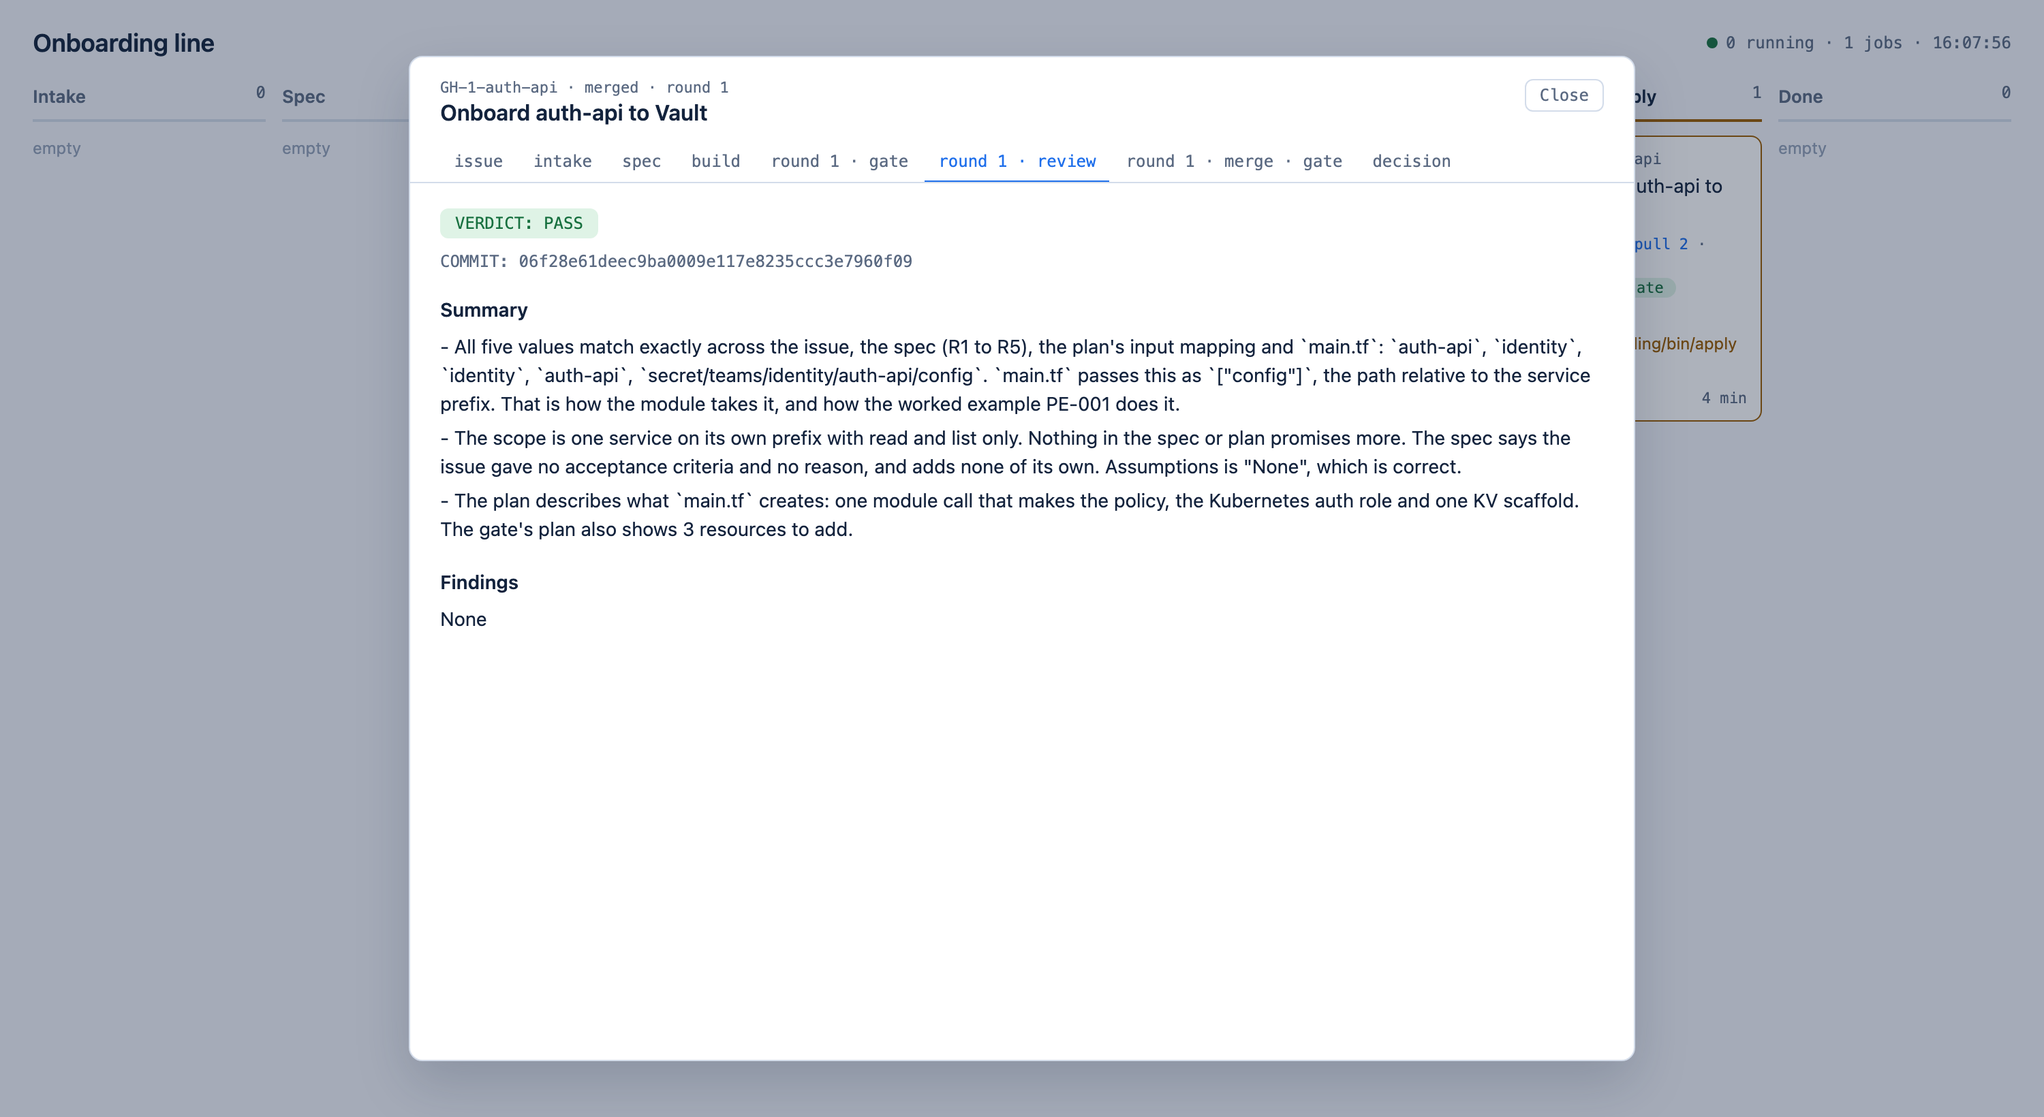
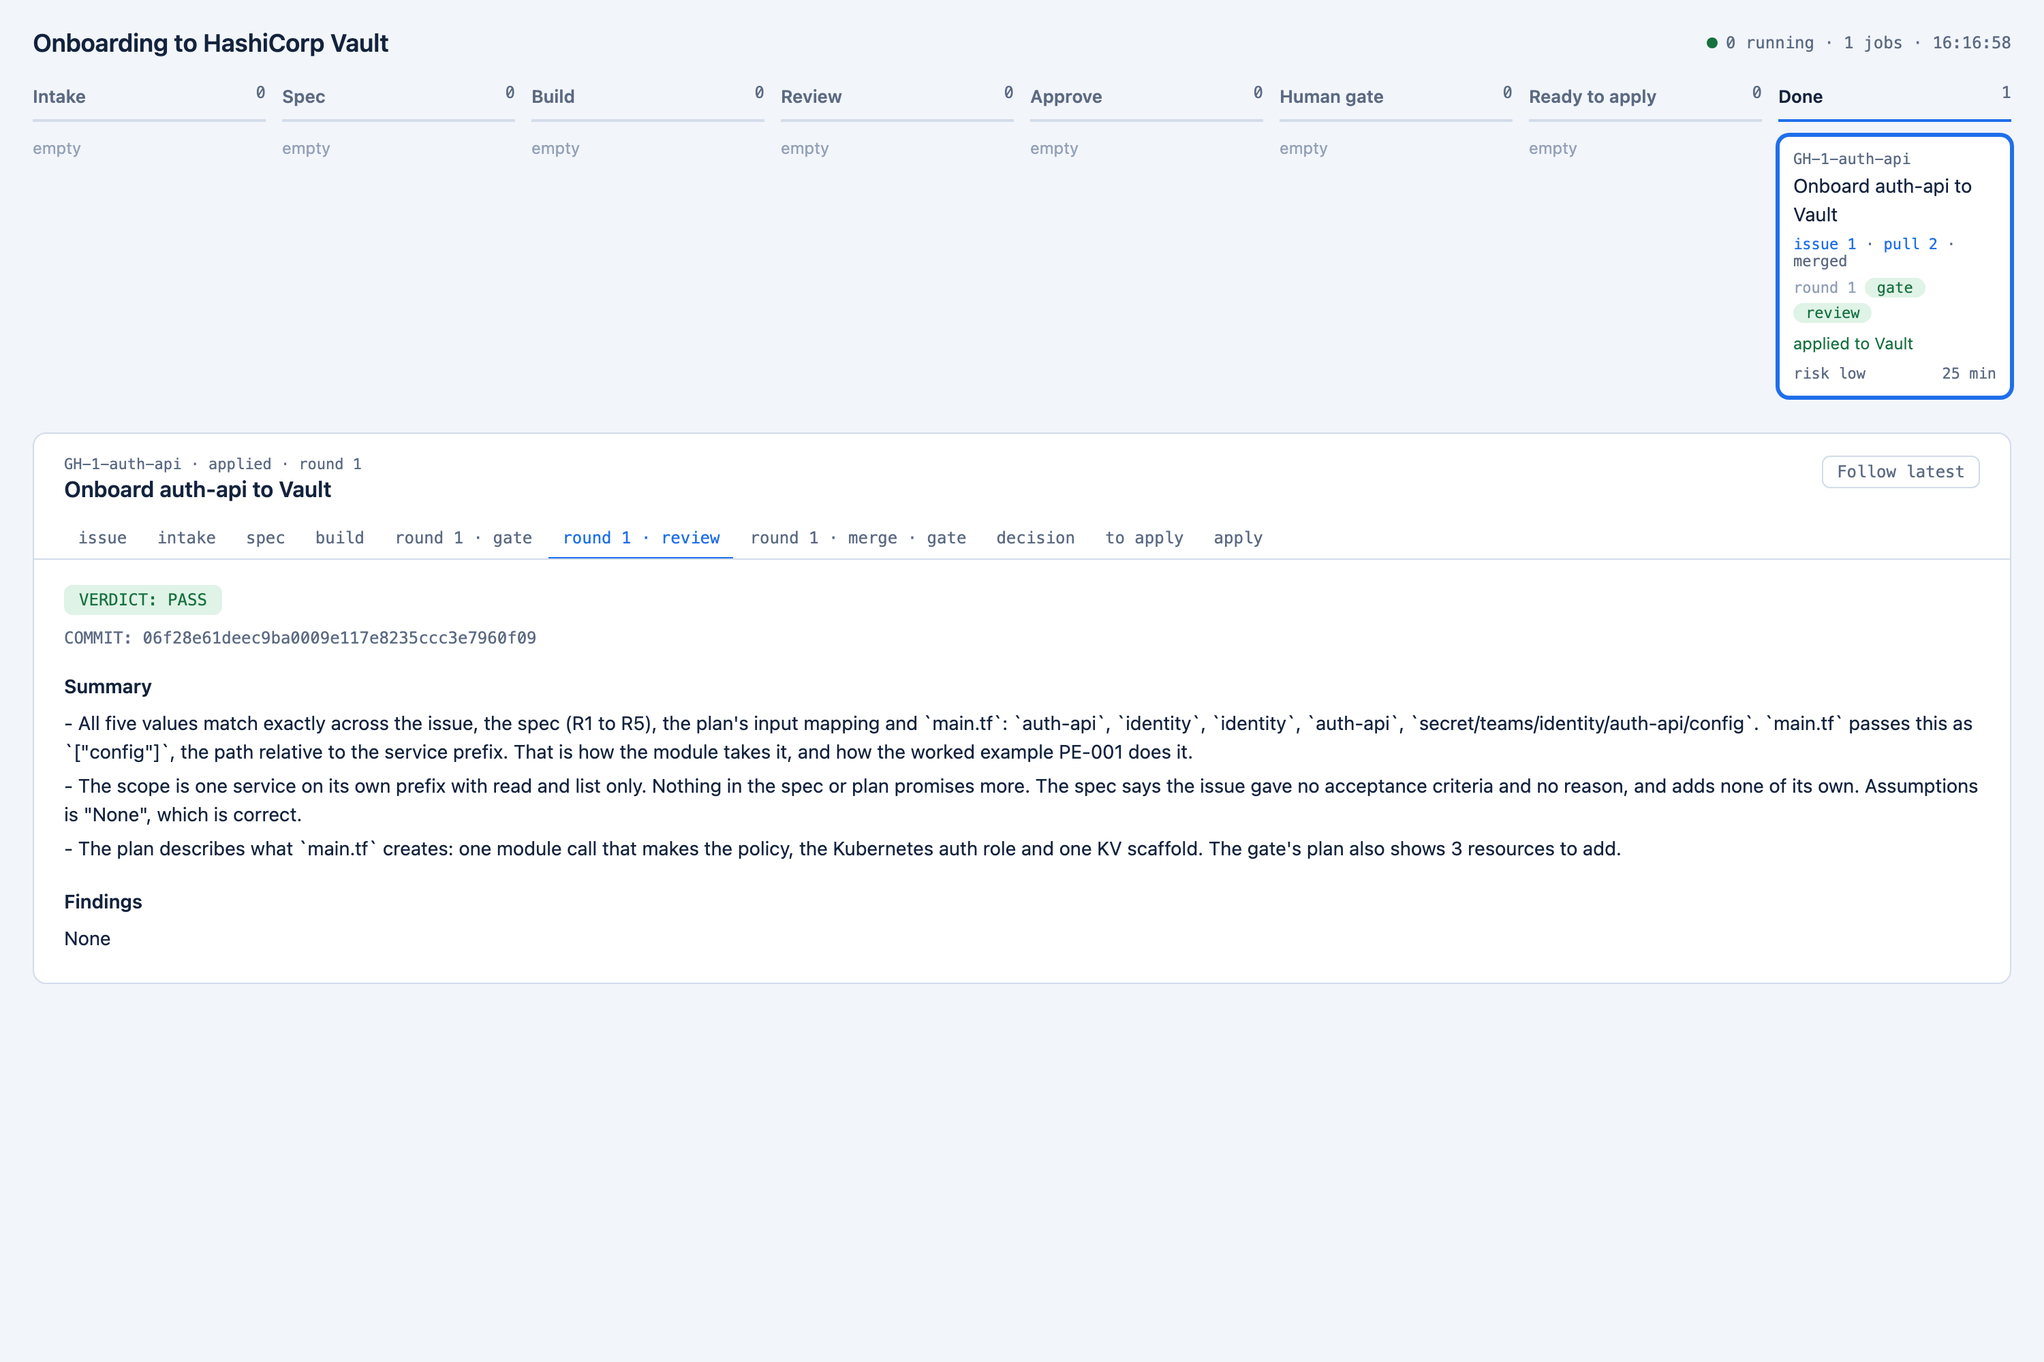
Board: a panel under the lanes, with the plan for a job that is ready to apply
The steps of a job now show in a panel under the lanes instead of a
pop-up. The panel follows the job that moved last; a click on a card
keeps it on that job. The gate keeps the text of its Terraform plan, and
the board shows it in a 'to apply' tab, so a person can read what will be
written to Vault before running the apply script.

Screenshots retaken. They now include the plan and the apply report of
the first real job.

diff --git a/onboarding/board/index.html b/onboarding/board/index.html
@@ -3,7 +3,7 @@
 <head>
 <meta charset="utf-8">
 <meta name="viewport" content="width=device-width, initial-scale=1">
-<title>Onboarding line</title>
+<title>Onboarding to HashiCorp Vault</title>
 <style>
   /* Daylight blue: a cool light page, white cards, one blue for what is running. */
   :root {
@@ -26,8 +26,8 @@
   @keyframes blink { 50% { opacity: .3; } }
   @media (prefers-reduced-motion: reduce) { .lamp.live, .beat { animation: none; } }
 
-  main { display: grid; grid-template-columns: repeat(8, minmax(150px, 1fr)); gap: 12px; padding: 0 24px 24px; overflow-x: auto; }
-  .lane { min-height: 62vh; }
+  main { display: grid; grid-template-columns: repeat(8, minmax(150px, 1fr)); gap: 12px; padding: 0 24px 16px; overflow-x: auto; }
+  .lane { min-height: 120px; }
   /* A lane heading is underlined; the line turns blue when the lane has jobs. */
   .lane h2 { display: flex; justify-content: space-between; margin: 0 0 10px; padding: 0 0 7px; font-size: 13px; font-weight: 600;
              color: var(--muted); border-bottom: 2px solid var(--line); }
@@ -39,6 +39,7 @@
   .card { background: var(--card); border: 1px solid var(--line); border-radius: 8px; padding: 10px; margin-bottom: 10px; cursor: pointer; }
   .card:hover, .card:focus { border-color: var(--blue); outline: none; }
   .card.you { border-color: var(--wait); }
+  .card.open { border-color: var(--blue); box-shadow: 0 0 0 2px var(--blue); }
   .id { font: 11px var(--mono); color: var(--muted); word-break: break-all; }
   .title { margin: 3px 0 5px; }
   .card.rejected .title { text-decoration: line-through; color: var(--muted); }
@@ -54,18 +55,15 @@
   .meta { margin-top: 7px; display: flex; justify-content: space-between; }
   .risk-medium { color: var(--wait); } .risk-high { color: var(--fail); }
 
-  /* One job's files: a sheet over the board, one tab per step. */
-  #shade { position: fixed; inset: 0; background: rgba(19, 35, 61, .35); display: none; }
-  #sheet { position: fixed; inset: 5vh 0 auto 0; margin: 0 auto; width: min(900px, calc(100% - 24px)); height: 90vh;
-           background: var(--card); border: 1px solid var(--line); border-radius: 10px;
-           display: none; grid-template-rows: auto auto 1fr; box-shadow: 0 16px 40px rgba(19, 35, 61, .18); }
-  #sheet.open, #shade.open { display: grid; }
+  /* One job's files, under the lanes: one tab per step. It follows the job that moved last. */
+  #sheet { margin: 0 24px 24px; background: var(--card); border: 1px solid var(--line); border-radius: 10px; display: none; }
+  #sheet.open { display: block; }
   .sheet-head { display: flex; justify-content: space-between; align-items: flex-start; gap: 12px; padding: 16px 22px 10px; }
   #d-title { font-size: 16px; font-weight: 600; }
   #d-steps { display: flex; gap: 2px; padding: 0 22px; border-bottom: 1px solid var(--line); overflow-x: auto; }
   #d-steps div { font: 12px var(--mono); padding: 7px 10px; cursor: pointer; color: var(--muted); white-space: nowrap; border-bottom: 2px solid transparent; margin-bottom: -1px; }
   #d-steps div:hover { color: var(--text); } #d-steps div.on { color: var(--blue); border-bottom-color: var(--blue); }
-  .doc { padding: 18px 22px; overflow-y: auto; }
+  .doc { padding: 18px 22px; }
   .doc .verdict { display: inline-block; font: 12px var(--mono); padding: 3px 10px; border: 1px solid var(--line); border-radius: 6px; margin-bottom: 10px; }
   .doc .verdict.pass { background: var(--pass-bg); color: var(--pass); border-color: transparent; }
   .doc .verdict.fail { background: var(--fail-bg); color: var(--fail); border-color: transparent; }
@@ -78,18 +76,18 @@
   .doc .quote { border-left: 3px solid var(--line); padding-left: 10px; color: var(--muted); }
   .doc .kv { font: 12px var(--mono); color: var(--muted); }
   @media (max-width: 1250px) { main { grid-template-columns: repeat(4, minmax(165px, 1fr)); row-gap: 22px; } .lane { min-height: 0; } }
+  @media (max-width: 680px) { #sheet { margin: 0 16px 16px; } }
   @media (max-width: 680px) { main { grid-template-columns: 1fr; padding: 0 16px 16px; } .top { padding: 16px; flex-direction: column; align-items: flex-start; } }
 </style>
 </head>
 <body>
 <header class="top">
-  <h1>Onboarding line</h1>
+  <h1>Onboarding to HashiCorp Vault</h1>
   <div class="status"><span id="live" class="lamp"></span><span id="summary">connecting</span></div>
 </header>
 <main id="board"></main>
-<div id="shade"></div>
 <aside id="sheet" aria-label="Job steps">
-  <div class="sheet-head"><div><div class="id" id="d-id"></div><div id="d-title"></div></div><button id="d-close">Close</button></div>
+  <div class="sheet-head"><div><div class="id" id="d-id"></div><div id="d-title"></div></div><button id="d-close">Follow latest</button></div>
   <nav id="d-steps"></nav>
   <div class="doc" id="d-doc"></div>
 </aside>
@@ -100,11 +98,11 @@
 // as text (textContent), never as HTML.
 const COLUMNS = [
   ["Intake", ["intake"]], ["Spec", ["spec"]], ["Build", ["build", "gate"]], ["Review", ["review"]],
-  ["Approve", ["approve", "merging"]], ["Needs you", ["needs-info", "needs-human"]],
+  ["Approve", ["approve", "merging"]], ["Human gate", ["needs-info", "needs-human"]],
   ["Ready to apply", ["ready-to-apply", "merged"]], ["Done", ["applied", "rejected"]],
 ];
 const POLL_MS = 2000;
-let jobs = [], lastDrawn = "", openJob = null, openStep = null;
+let jobs = [], lastDrawn = "", openJob = null, openStep = null, pinned = false;
 
 function el(tag, cls, text) {
   const node = document.createElement(tag);
@@ -125,7 +123,7 @@ function mark(label, result, isNow) {
 
 function card(job) {
   const waiting = ["needs-info", "needs-human", "ready-to-apply", "merged"].includes(job.stage);
-  const c = el("div", "card" + (job.running ? " running" : "") + (waiting ? " you" : "") +
+  const c = el("div", "card" + (job.id === openJob ? " open" : "") + (job.running ? " running" : "") + (waiting ? " you" : "") +
                       (job.stage === "applied" ? " applied" : "") + (job.stage === "rejected" ? " rejected" : ""));
   c.tabIndex = 0;
   const id = el("div", "id");
@@ -166,7 +164,7 @@ function draw() {
   board.replaceChildren();
   COLUMNS.forEach(([name, stages]) => {
     const mine = jobs.filter(j => stages.includes(j.stage)).sort((a, b) => b.started.localeCompare(a.started));
-    const lane = el("section", "lane" + (["Needs you", "Ready to apply"].includes(name) ? " you" : "") + (mine.length ? " busy" : ""));
+    const lane = el("section", "lane" + (["Human gate", "Ready to apply"].includes(name) ? " you" : "") + (mine.length ? " busy" : ""));
     const head = el("h2");
     head.append(el("span", "", name), el("span", "count", String(mine.length)));
     lane.append(head);
@@ -186,39 +184,40 @@ async function poll() {
     summary.textContent = running + " running · " + jobs.length + " jobs · " + new Date().toLocaleTimeString();
     // Redraw on change, and once a minute so "minutes elapsed" keeps moving.
     const stamp = text + Math.floor(Date.now() / 60000);
-    if (stamp !== lastDrawn) { lastDrawn = stamp; draw(); if (openJob) fillSheet(); }
+    if (stamp !== lastDrawn) { lastDrawn = stamp; follow(); draw(); fillSheet(); }
   } catch (e) {
     live.className = "lamp down";
     summary.textContent = "board server not reachable";
   }
 }
 
-// ---- the sheet: every step of one job, rendered from the files in its folder
+// ---- the panel: every step of one job, rendered from the files in its folder
 
-function openSheet(id, step) {
-  openJob = id; openStep = step || null;
-  for (const part of ["sheet", "shade"]) document.getElementById(part).classList.add("open");
-  fillSheet();
+// Unless a person picked a card, the panel shows the job that moved last, at its latest step.
+function follow() {
+  if (pinned && jobs.some(j => j.id === openJob)) return;
+  const latest = jobs.slice().sort((a, b) => b.updated.localeCompare(a.updated))[0];
+  pinned = false; openJob = latest ? latest.id : null; openStep = null;
 }
-function closeSheet() {
-  openJob = null;
-  for (const part of ["sheet", "shade"]) document.getElementById(part).classList.remove("open");
-}
-document.getElementById("d-close").addEventListener("click", closeSheet);
-document.getElementById("shade").addEventListener("click", closeSheet);
-document.addEventListener("keydown", e => { if (e.key === "Escape") closeSheet(); });
+function openSheet(id, step) { pinned = true; openJob = id; openStep = step || null; draw(); fillSheet(); }
+document.getElementById("d-close").addEventListener("click", () => { pinned = false; follow(); draw(); fillSheet(); });
+
+const STEP_NAME = step => step.endsWith("plan.txt") ? "to apply" :
+  step.replace(".md", "").replace("round-", "round ").replace(/\//g, " · ");
 
 function fillSheet() {
   const job = jobs.find(j => j.id === openJob);
-  if (!job) return closeSheet();
+  document.getElementById("sheet").classList.toggle("open", !!job);
+  if (!job) return;
+  document.getElementById("d-close").style.display = pinned ? "" : "none";
   document.getElementById("d-id").textContent = job.id + "  ·  " + job.stage + (job.round ? "  ·  round " + job.round : "");
   document.getElementById("d-title").textContent = job.title;
   if (!job.steps.includes(openStep)) openStep = job.steps[job.steps.length - 1] || null;
   const nav = document.getElementById("d-steps");
   nav.replaceChildren();
   for (const step of job.steps) {
-    const item = el("div", step === openStep ? "on" : "", step.replace(".md", "").replace("round-", "round ").replace(/\//g, " · "));
-    item.addEventListener("click", () => { openStep = step; fillSheet(); });
+    const item = el("div", step === openStep ? "on" : "", STEP_NAME(step));
+    item.addEventListener("click", () => { pinned = true; openStep = step; fillSheet(); });
     nav.append(item);
   }
   showStep(job.id, openStep);
@@ -229,13 +228,20 @@ async function showStep(id, step) {
   if (!step) return doc.replaceChildren(el("p", "kv", "No files yet."));
   const response = await fetch("/api/file?job=" + encodeURIComponent(id) + "&name=" + encodeURIComponent(step));
   if (id !== openJob || step !== openStep) return;   // the person clicked elsewhere meanwhile
-  doc.replaceChildren(...render(response.ok ? await response.text() : "(file not available)"));
+  const text = response.ok ? await response.text() : "(file not available)";
+  if (step.endsWith("plan.txt")) {
+    // The Terraform plan from the merge gate, as it is. The apply script plans again on your Vault.
+    return doc.replaceChildren(
+      el("p", "kv", "Planned by the merge gate on its throwaway Vault. onboarding/bin/apply plans again on your Vault and asks before it applies."),
+      el("pre", "", text.trim()));
+  }
+  doc.replaceChildren(...render(text));
 }
 
 // A very small markdown reader: verdict line, KEY: value lines, headings, quotes, the rest as text.
 function render(text) {
   const out = [], lines = text.split("\n");
-  let block = [];
+  let block = [], fenced = false;
   const flush = () => {
     if (!block.length) return;
     out.push(block[0].startsWith("|") ? table(block) : el("pre", "", block.join("\n")));
@@ -255,13 +261,17 @@ function render(text) {
     return t;
   };
   lines.forEach((line, i) => {
+    // A fenced block is shown as it is, without the fence lines.
+    if (line.startsWith("```")) { flush(); fenced = !fenced; return; }
+    if (fenced) { block.push(line); return; }
     if (i === 0 && /^(DECISION|STATUS|VERDICT|GATE|APPROVE|ESCALATE|APPLY)/.test(line)) {
       const good = /PASS|accepted|READY|APPROVE/.test(line), bad = /FAIL|CHANGES|rejected|BLOCKED|ESCALATE/.test(line);
       out.push(el("div", "verdict" + (good ? " pass" : bad ? " fail" : ""), line));
     } else if (/^#{1,3} /.test(line)) { flush(); out.push(el("h3", "", line.replace(/^#+ /, "")));
     } else if (/^[A-Z]+: /.test(line) && i < 6) { flush(); out.push(el("div", "kv", line));
     } else if (line.startsWith("> ") || line === ">") { flush(); out.push(el("p", "quote", line.slice(2)));
-    } else if (line.startsWith("|") || line.startsWith("```") || line.startsWith("  ")) { block.push(line);
+    } else if (/^== .* ==$/.test(line)) { flush(); out.push(el("h3", "", line.replace(/^== | ==$/g, "")));
+    } else if (line.startsWith("|") || line.startsWith("  ")) { block.push(line);
     } else { flush(); if (line.trim()) out.push(el("p", "", line)); }
   });
   flush();

diff --git a/onboarding/board/serve.py b/onboarding/board/serve.py
@@ -19,7 +19,7 @@ PAGE = Path(__file__).with_name("index.html")
 
 JOB_ID = re.compile(r"GH-[0-9]+-[a-z0-9-]+")
 # The only files the page may ask for. Nothing else on disk is reachable.
-STEP_FILE = re.compile(r"(issue|intake|build|decision|apply|feedback-[0-9]+)\.md|round-[0-9]+/(gate|review)\.md|round-[0-9]+/merge/gate\.md")
+STEP_FILE = re.compile(r"(issue|intake|build|decision|apply|feedback-[0-9]+)\.md|round-[0-9]+/(gate|review)\.md|round-[0-9]+/merge/(gate\.md|plan\.txt)")
 
 
 def steps(job):
@@ -33,7 +33,14 @@ def steps(job):
     for rnd in sorted(folder.glob("round-*"), key=lambda p: int(p.name.split("-")[1])):
         found += ["%s/%s" % (rnd.name, f) for f in ("gate.md", "review.md", "merge/gate.md") if (rnd / f).is_file()]
     found += sorted(p.name for p in folder.glob("feedback-*.md"))
-    found += [name for name in ("decision.md", "apply.md") if (folder / name).is_file()]
+    if (folder / "decision.md").is_file():
+        found.append("decision.md")
+    # The plan from the merge gate: what a person is about to apply.
+    plan = "round-%s/merge/plan.txt" % job.get("round")
+    if (folder / plan).is_file():
+        found.append(plan)
+    if (folder / "apply.md").is_file():
+        found.append("apply.md")
     return found
 
 

diff --git a/docs/run.md b/docs/run.md
@@ -183,9 +183,9 @@ Leave the session open. It starts each agent in the background and moves the job
 
 On the board, the card moves from lane to lane.
 
-![The board with one merged job waiting for a person to apply it](img/board-ready-to-apply.png)
+![The board: the lanes on top, the steps of one job below](img/board.png)
 
-Click a card to read each step. There is one tab per step.
+Under the lanes, a panel shows the steps of one job, one tab per step. It follows the job that moved last and opens its latest step. Click a card to keep the panel on that job. "Follow latest" lets it move again.
 
 ### Intake
 
@@ -259,6 +259,10 @@ requests/GH-12-auth-api/
   03-terraform/main.tf
 ```
 
+Before you apply, read the plan on the board. The tab "to apply" shows the Terraform plan from the merge gate: the policy, the role and the secret paths the request creates.
+
+![The to apply tab with the Terraform plan](img/step-to-apply.png)
+
 You need a Vault on 127.0.0.1. For a dev Vault, in its own terminal:
 
 ```bash
@@ -283,6 +287,10 @@ The script does this:
 4. It applies the plan it showed.
 5. It checks the Vault. A token with only the new policy must read its own paths. It must get HTTP 403 on a write, on another team's path and on `sys/`. The role must be as planned.
 6. It comments the result on the issue, moves the card to **Done** and closes the issue.
+
+The result is also on the board, in the tab "apply".
+
+![The apply tab with the checks made on the Vault](img/step-apply.png)
 
 If the Vault has no Kubernetes auth mount yet, the script asks first whether to create it. This happens once per Vault.
 
@@ -328,7 +336,7 @@ gh issue create --label onboard --title "Onboard billing-worker to Vault" --body
 
 Run it with `/onboard run <number>`.
 
-Intake should ask for the namespace in a comment on the issue. The label becomes `onboard:needs-info` and the card moves to **Needs you**. No branch and no pull request are created.
+Intake should ask for the namespace in a comment on the issue. The label becomes `onboard:needs-info` and the card moves to **Human gate**. No branch and no pull request are created.
 
 To continue, answer on the issue, for example "The namespace is billing". Then run `/onboard run <number>` again. Intake reads the answer and the job goes on.
 

diff --git a/README.md b/README.md
@@ -26,7 +26,7 @@ ready to apply → you run onboarding/bin/apply: it shows the policy, the role
                  and the plan, asks, applies, and checks the Vault
 ```
 
-![The board with one merged job waiting for a person to apply it](docs/img/board-ready-to-apply.png)
+![The board: the lanes on top, the steps of one job below](docs/img/board.png)
 
 ## What you need
 
@@ -64,9 +64,11 @@ On GitHub, the issue has one stage label at a time:
 
 The issue closes when a person has applied the request. The side exits are `onboard:needs-info` and `onboard:needs-human`. Every step leaves a comment. Intake's decision is on the issue. Each gate report, the review and the approver's decision are on the pull request.
 
-On the board, there is one card per job, in the lane of its stage. A card shows the gate and review result of every round, the risk, the minutes elapsed and a dot while the job runs. Click a card to read every step.
+On the board, there is one card per job, in the lane of its stage. A card shows the gate and review result of every round, the risk, the minutes elapsed and a dot while the job runs. Under the lanes, a panel shows the steps of one job, one tab per step. It follows the job that moved last. Click a card to keep the panel on that job.
 
-![The gate report of a job, opened from its card](docs/img/step-gate.png)
+When a job is ready to apply, the panel shows the Terraform plan from the merge gate, so you can read what will be written to Vault before you run the apply script.
+
+![The Terraform plan of a merged job, shown on the board](docs/img/step-to-apply.png)
 
 ## Agents
 

diff --git a/docs/architecture.md b/docs/architecture.md
@@ -74,6 +74,8 @@ The gate runs twice. The merge script syncs the branch with main and runs the ga
 
 It plans the merged request against the Vault in `apply_to`. It shows the policy in full, the role, the secret paths and the Terraform plan line, and asks for `yes`. It then applies the plan file it showed, not a new plan.
 
+The merge gate keeps the text of its Terraform plan, and the board shows it for a job that is ready to apply. That plan was made on the gate's throwaway Vault. The apply script plans again on the target Vault, and that second plan is the one it applies.
+
 After the apply it checks the Vault itself. The policy text must be the planned text. A token with only that policy must read its own paths and must get HTTP 403 `permission denied` on a write, on another team's path and on `sys/`. The role must have the planned service account, namespace and policy.
 
 Three things keep this step with a person. The script stops if it has no terminal. The hook refuses the command for agents and sessions. The script refuses any address that is not on 127.0.0.1.
